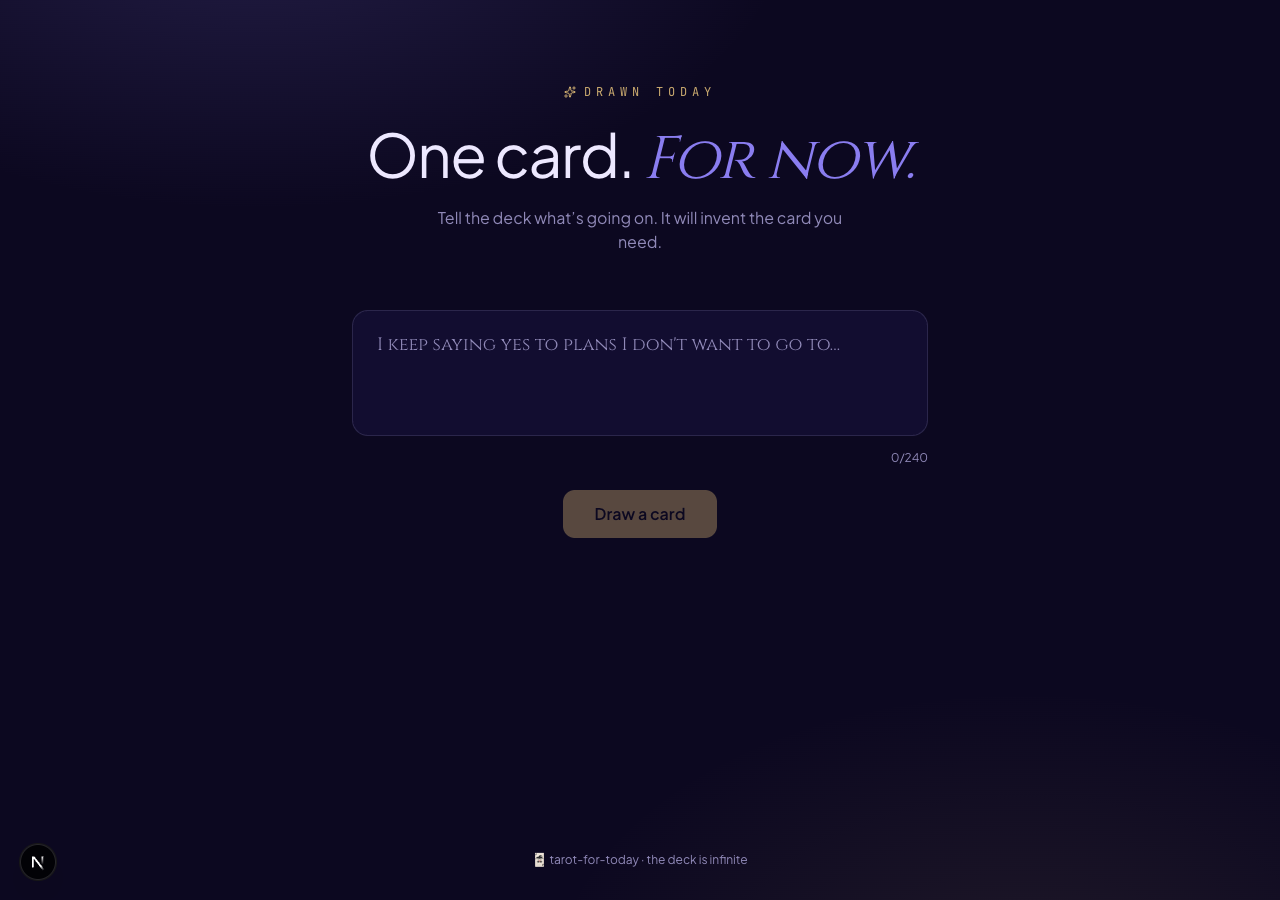
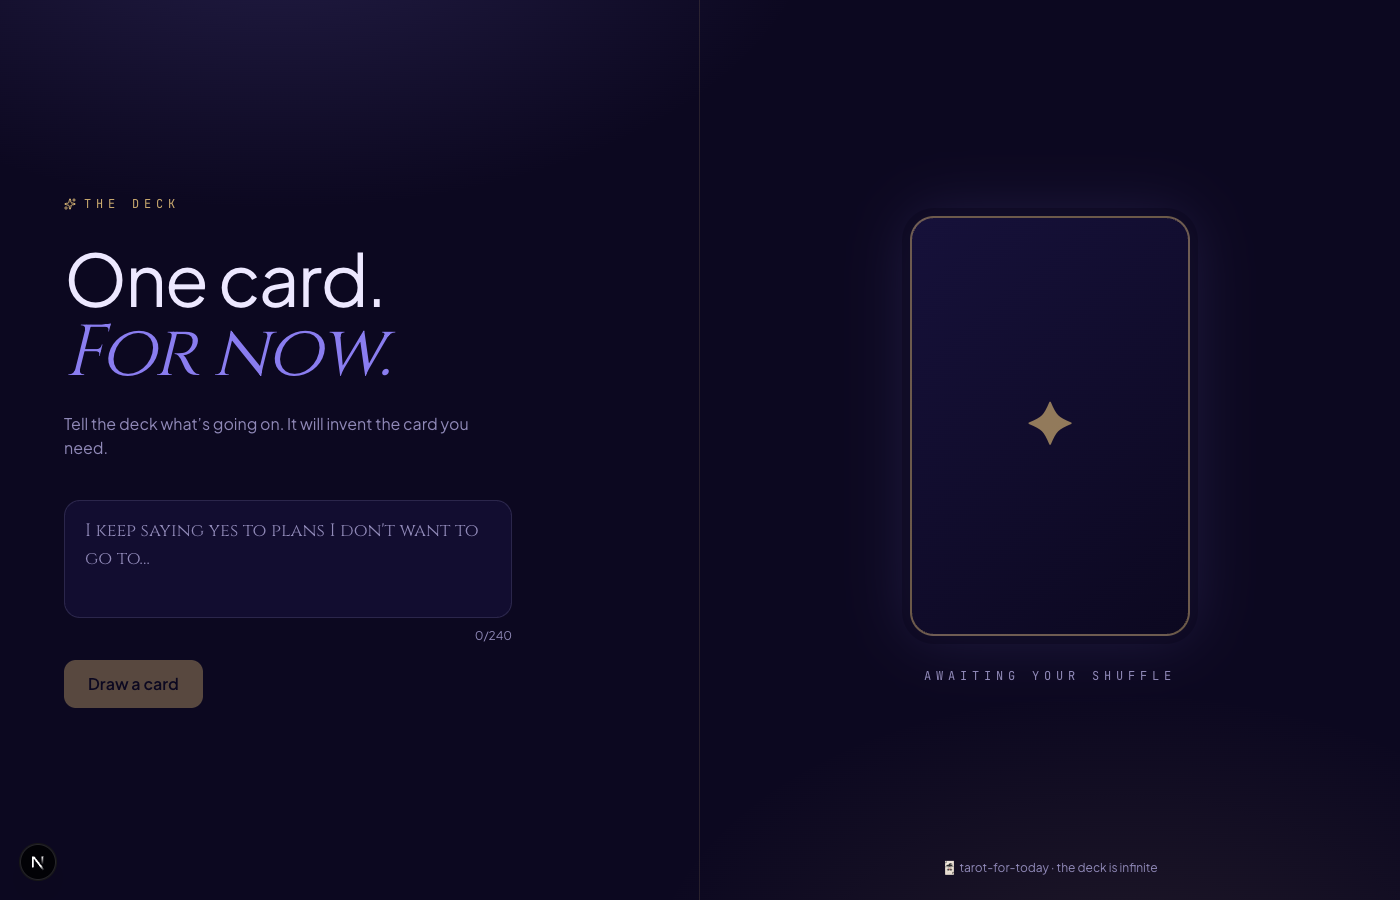
feat: split-screen layout — input on left, card-back on right
- Replaces centered hero with proper deck-and-card metaphor
- Card back (with ✦ glyph) renders on right while waiting
- On draw: card-flip animation (rotateY 90 -> 0) reveals the card
- Truly different layout from the other apps in the family

diff --git a/src/app/page.tsx b/src/app/page.tsx
@@ -56,69 +56,108 @@ export default function Home() {
   };
 
   return (
-    <main className="flex-1 flex flex-col">
-      <header className="px-6 pt-12 sm:pt-20 pb-2 text-center">
-        <div className="inline-flex items-center gap-2 mb-6 text-xs font-mono text-accent uppercase tracking-[0.4em]">
-          <Sparkles className="h-3 w-3" /> drawn today
-        </div>
-        <h1 className="text-4xl sm:text-6xl tracking-tight text-ink">
-          One card.{" "}
-          <span className="font-display italic text-arcane">For now.</span>
-        </h1>
-        <p className="mt-4 text-ink-dim max-w-md mx-auto">
-          Tell the deck what&rsquo;s going on. It will invent the card you need.
-        </p>
-      </header>
+    <main className="flex-1 grid lg:grid-cols-2 min-h-screen">
+      {/* LEFT — the deck */}
+      <section className="relative flex flex-col justify-center px-8 sm:px-16 py-16 border-b lg:border-b-0 lg:border-r border-accent/15">
+        <div className="max-w-md">
+          <div className="inline-flex items-center gap-2 mb-8 text-xs font-mono text-accent uppercase tracking-[0.4em]">
+            <Sparkles className="h-3 w-3" /> the deck
+          </div>
+          <h1 className="text-5xl sm:text-7xl tracking-tight text-ink leading-[0.95]">
+            One card.<br/>
+            <span className="font-display italic text-arcane">For now.</span>
+          </h1>
+          <p className="mt-6 text-ink-dim">
+            Tell the deck what&rsquo;s going on. It will invent the card you need.
+          </p>
 
-      <section className="flex-1 px-6 py-12">
+          <form onSubmit={submit} className="mt-10">
+            <textarea
+              value={mood}
+              onChange={(e) => setMood(e.target.value)}
+              placeholder="I keep saying yes to plans I don't want to go to…"
+              rows={3}
+              maxLength={240}
+              disabled={!!card}
+              className="w-full bg-bg-2/60 border border-ink-dim/20 rounded-2xl px-5 py-4 text-ink placeholder-ink-dim font-display text-lg focus:border-arcane/60 focus:outline-none resize-none disabled:opacity-50"
+            />
+            <div className="mt-1 text-right text-xs text-ink-dim">{mood.length}/240</div>
+            <div className="mt-4 flex gap-2">
+              <button
+                type="submit"
+                disabled={!mood.trim() || loading || !!card}
+                className="px-6 py-3 rounded-xl bg-accent text-bg font-semibold hover:bg-accent-2 transition disabled:opacity-40 disabled:cursor-not-allowed"
+              >
+                {loading ? "Shuffling…" : card ? "Card drawn" : "Draw a card"}
+              </button>
+              {card && (
+                <button
+                  type="button"
+                  onClick={reset}
+                  className="px-5 py-3 rounded-xl border border-ink-dim/30 text-ink hover:border-accent/60 hover:text-accent transition inline-flex items-center gap-2"
+                >
+                  <RefreshCw className="h-4 w-4" />
+                  Shuffle
+                </button>
+              )}
+            </div>
+            {error && <p className="mt-3 text-sm text-rust">{error}</p>}
+          </form>
+        </div>
+      </section>
+
+      {/* RIGHT — the drawn card */}
+      <section className="relative flex flex-col items-center justify-center px-6 sm:px-12 py-16">
         <AnimatePresence mode="wait">
           {!card ? (
-            <motion.form
-              key="input"
-              onSubmit={submit}
-              initial={{ opacity: 0, y: 10 }}
-              animate={{ opacity: 1, y: 0 }}
-              exit={{ opacity: 0, y: -8 }}
+            <motion.div
+              key="empty"
+              initial={{ opacity: 0 }}
+              animate={{ opacity: 1 }}
+              exit={{ opacity: 0 }}
               transition={{ duration: 0.4 }}
-              className="w-full max-w-xl mx-auto"
+              className="text-center"
             >
-              <textarea
-                value={mood}
-                onChange={(e) => setMood(e.target.value)}
-                placeholder="I keep saying yes to plans I don't want to go to…"
-                rows={3}
-                maxLength={240}
-                className="w-full bg-bg-2/60 border border-ink-dim/20 rounded-2xl px-6 py-5 text-ink placeholder-ink-dim font-display text-lg focus:border-arcane/60 focus:outline-none resize-none"
-              />
-              <div className="mt-2 text-right text-xs text-ink-dim">{mood.length}/240</div>
-              <div className="mt-6 flex justify-center">
-                <button
-                  type="submit"
-                  disabled={!mood.trim() || loading}
-                  className="px-8 py-3 rounded-xl bg-accent text-bg font-semibold hover:bg-accent-2 transition disabled:opacity-40 disabled:cursor-not-allowed"
-                >
-                  {loading ? "Shuffling…" : "Draw a card"}
-                </button>
+              {/* card back */}
+              <div
+                className="mx-auto rounded-3xl flex items-center justify-center"
+                style={{
+                  width: 280,
+                  height: 420,
+                  background:
+                    "linear-gradient(140deg, #16113a 0%, #0c0820 100%)",
+                  border: "2px solid rgba(201,169,110,0.5)",
+                  boxShadow:
+                    "0 0 0 8px rgba(12,8,32,0.6), 0 0 60px rgba(138,125,240,0.18)",
+                }}
+              >
+                <div className="font-display text-6xl text-accent/70">✦</div>
               </div>
-              {error && <p className="mt-4 text-center text-sm text-rust">{error}</p>}
-            </motion.form>
+              <p className="mt-8 text-ink-dim font-mono text-xs uppercase tracking-[0.4em]">
+                awaiting your shuffle
+              </p>
+            </motion.div>
           ) : (
             <motion.div
-              key="result"
-              initial={{ opacity: 0, y: 16, scale: 0.96 }}
-              animate={{ opacity: 1, y: 0, scale: 1 }}
-              transition={{ duration: 0.5 }}
-              className="w-full max-w-md mx-auto"
+              key="drawn"
+              initial={{ opacity: 0, rotateY: 90, scale: 0.9 }}
+              animate={{ opacity: 1, rotateY: 0, scale: 1 }}
+              transition={{ duration: 0.7, ease: [0.22, 1, 0.36, 1] }}
+              className="w-full max-w-sm"
+              style={{ perspective: 1200 }}
             >
               <div
                 className="rounded-3xl p-8 text-center"
                 style={{
-                  background: "linear-gradient(180deg, rgba(22,17,58,0.95) 0%, rgba(12,8,32,0.95) 100%)",
+                  background:
+                    "linear-gradient(180deg, rgba(22,17,58,0.95) 0%, rgba(12,8,32,0.95) 100%)",
                   border: "1px solid rgba(201,169,110,0.4)",
                   boxShadow: "0 0 60px rgba(138,125,240,0.18)",
                 }}
               >
-                <div className="text-xs font-mono uppercase tracking-[0.5em] text-accent">drawn today</div>
+                <div className="text-xs font-mono uppercase tracking-[0.5em] text-accent">
+                  drawn today
+                </div>
                 <div className="text-7xl mt-6">{card.glyph}</div>
                 <h2 className="mt-4 font-display text-3xl text-ink" style={{ letterSpacing: "0.04em" }}>
                   {card.card}
@@ -126,20 +165,19 @@ export default function Home() {
                 <div className="mx-auto mt-4 h-px w-16 bg-accent/50" />
                 <p className="mt-4 text-ink/90 leading-relaxed">{card.upright}</p>
                 <div className="mt-6 pt-6 border-t border-accent/25">
-                  <div className="text-xs font-mono uppercase tracking-[0.4em] text-accent">it asks of you</div>
+                  <div className="text-xs font-mono uppercase tracking-[0.4em] text-accent">
+                    it asks of you
+                  </div>
                   <p className="mt-2 font-display italic text-accent-2 text-lg">{card.asks}</p>
                 </div>
               </div>
 
-              <div className="mt-6 flex flex-wrap items-center justify-center gap-3">
-                <button onClick={download} className="inline-flex items-center gap-2 rounded-xl bg-accent px-5 py-3 text-bg font-semibold hover:bg-accent-2 transition">
-                  <Download className="h-4 w-4" /> Download
+              <div className="mt-6 flex flex-wrap items-center justify-center gap-2">
+                <button onClick={download} className="inline-flex items-center gap-2 rounded-xl bg-accent px-4 py-2.5 text-bg text-sm font-semibold hover:bg-accent-2 transition">
+                  <Download className="h-3.5 w-3.5" /> Download
                 </button>
-                <button onClick={share} className="inline-flex items-center gap-2 rounded-xl border border-ink-dim/30 px-5 py-3 text-ink hover:border-accent/60 hover:text-accent transition">
-                  <Share2 className="h-4 w-4" /> Share
-                </button>
-                <button onClick={reset} className="inline-flex items-center gap-2 rounded-xl border border-ink-dim/30 px-5 py-3 text-ink hover:border-accent/60 hover:text-accent transition">
-                  <RefreshCw className="h-4 w-4" /> Draw again
+                <button onClick={share} className="inline-flex items-center gap-2 rounded-xl border border-ink-dim/30 px-4 py-2.5 text-ink text-sm hover:border-accent/60 hover:text-accent transition">
+                  <Share2 className="h-3.5 w-3.5" /> Share
                 </button>
               </div>
 
@@ -149,11 +187,11 @@ export default function Home() {
             </motion.div>
           )}
         </AnimatePresence>
-      </section>
 
-      <footer className="px-6 py-8 text-center text-xs text-ink-dim">
-        🃏 tarot-for-today · the deck is infinite
-      </footer>
+        <footer className="absolute bottom-6 left-0 right-0 text-center text-xs text-ink-dim">
+          🃏 tarot-for-today · the deck is infinite
+        </footer>
+      </section>
     </main>
   );
 }
